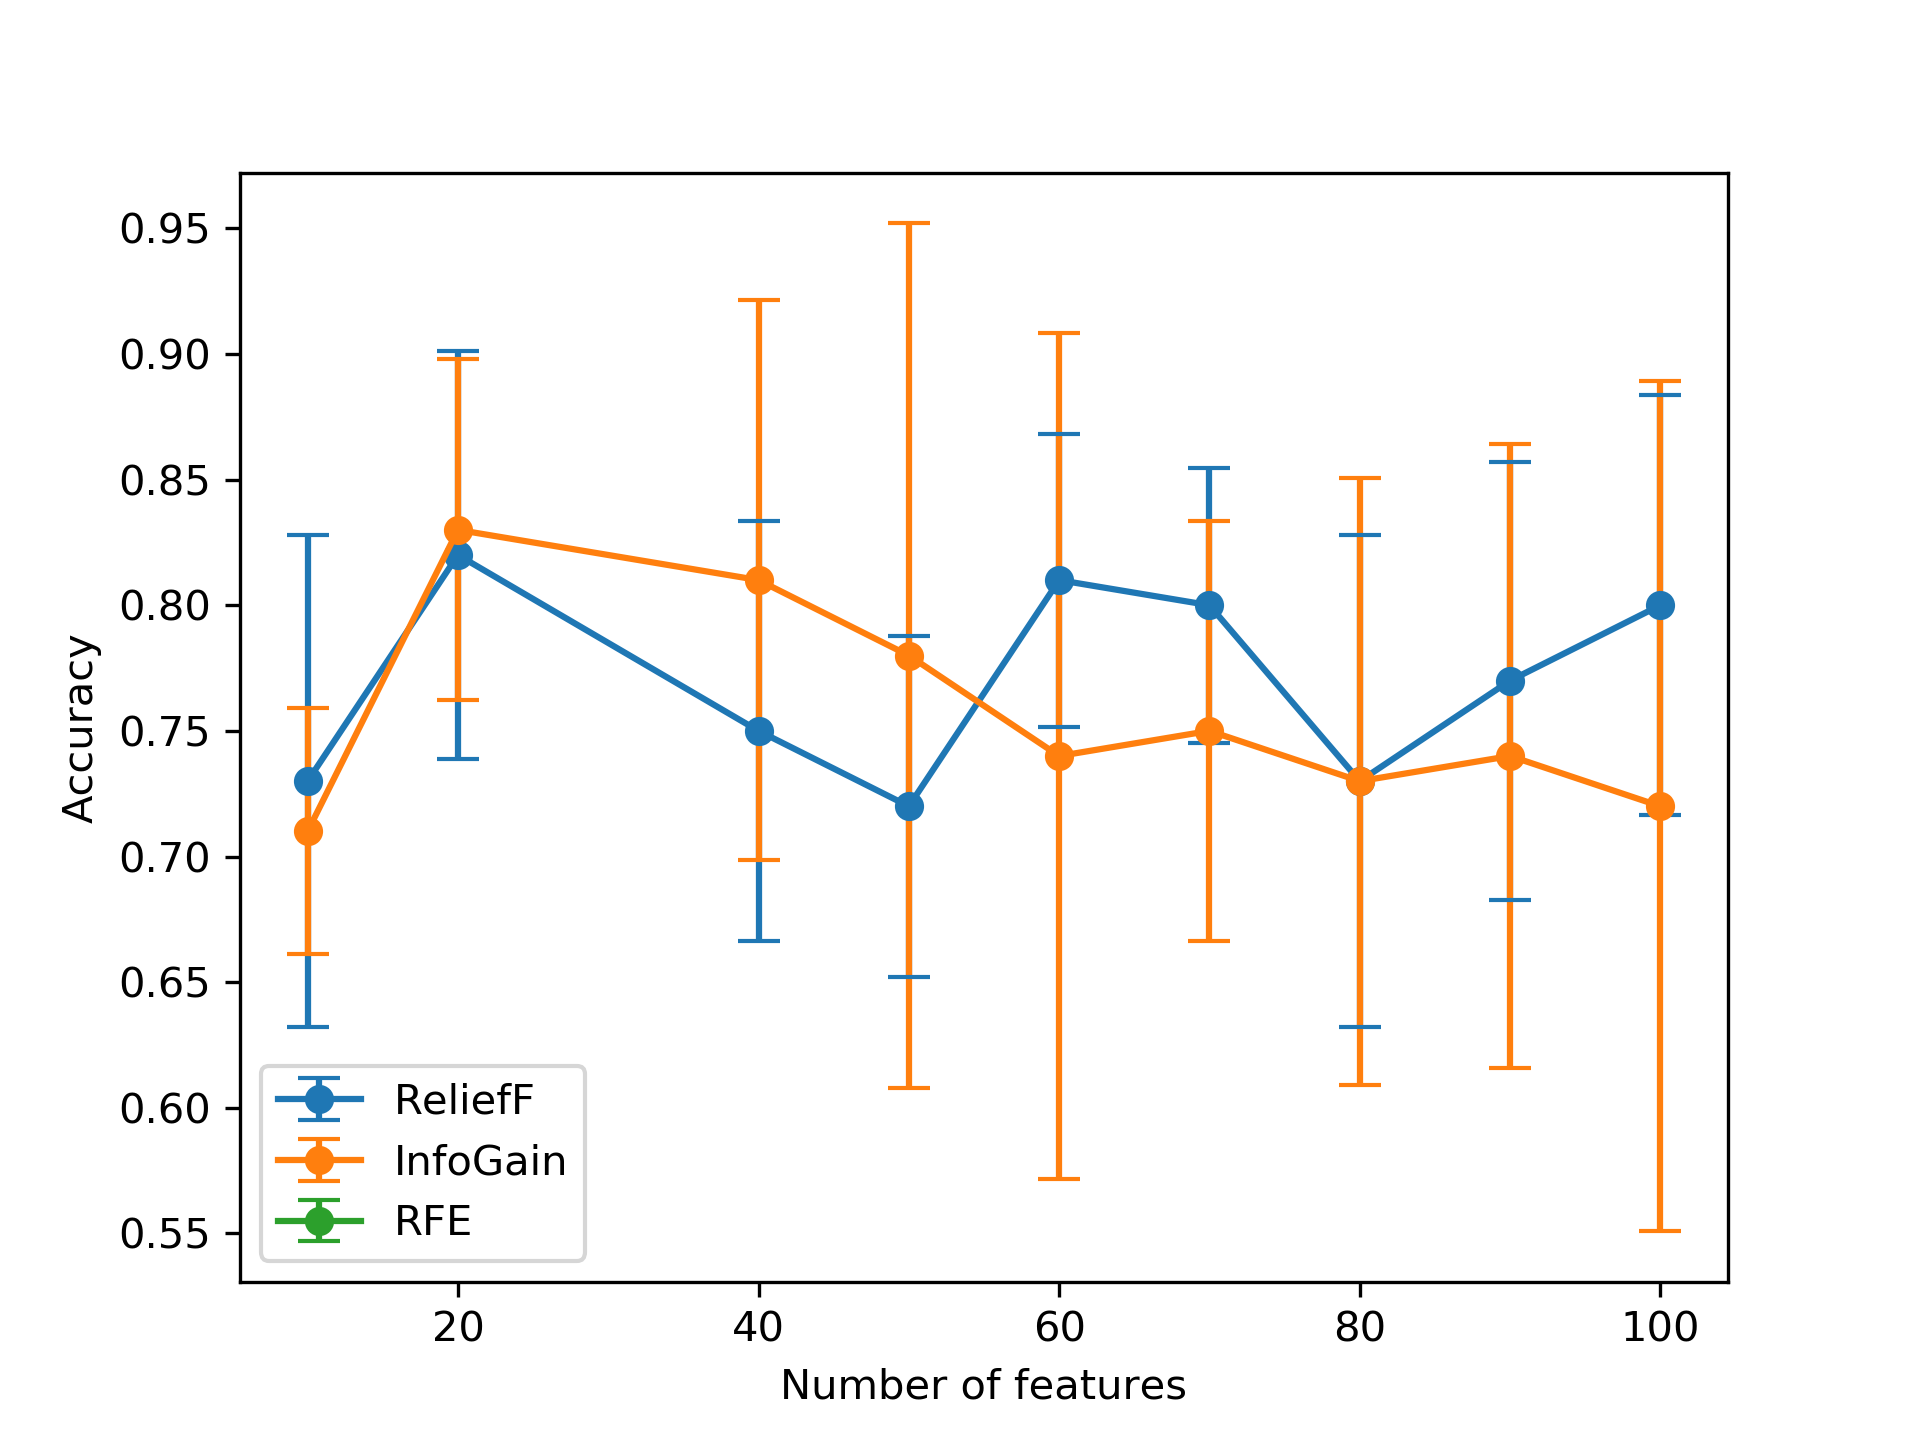
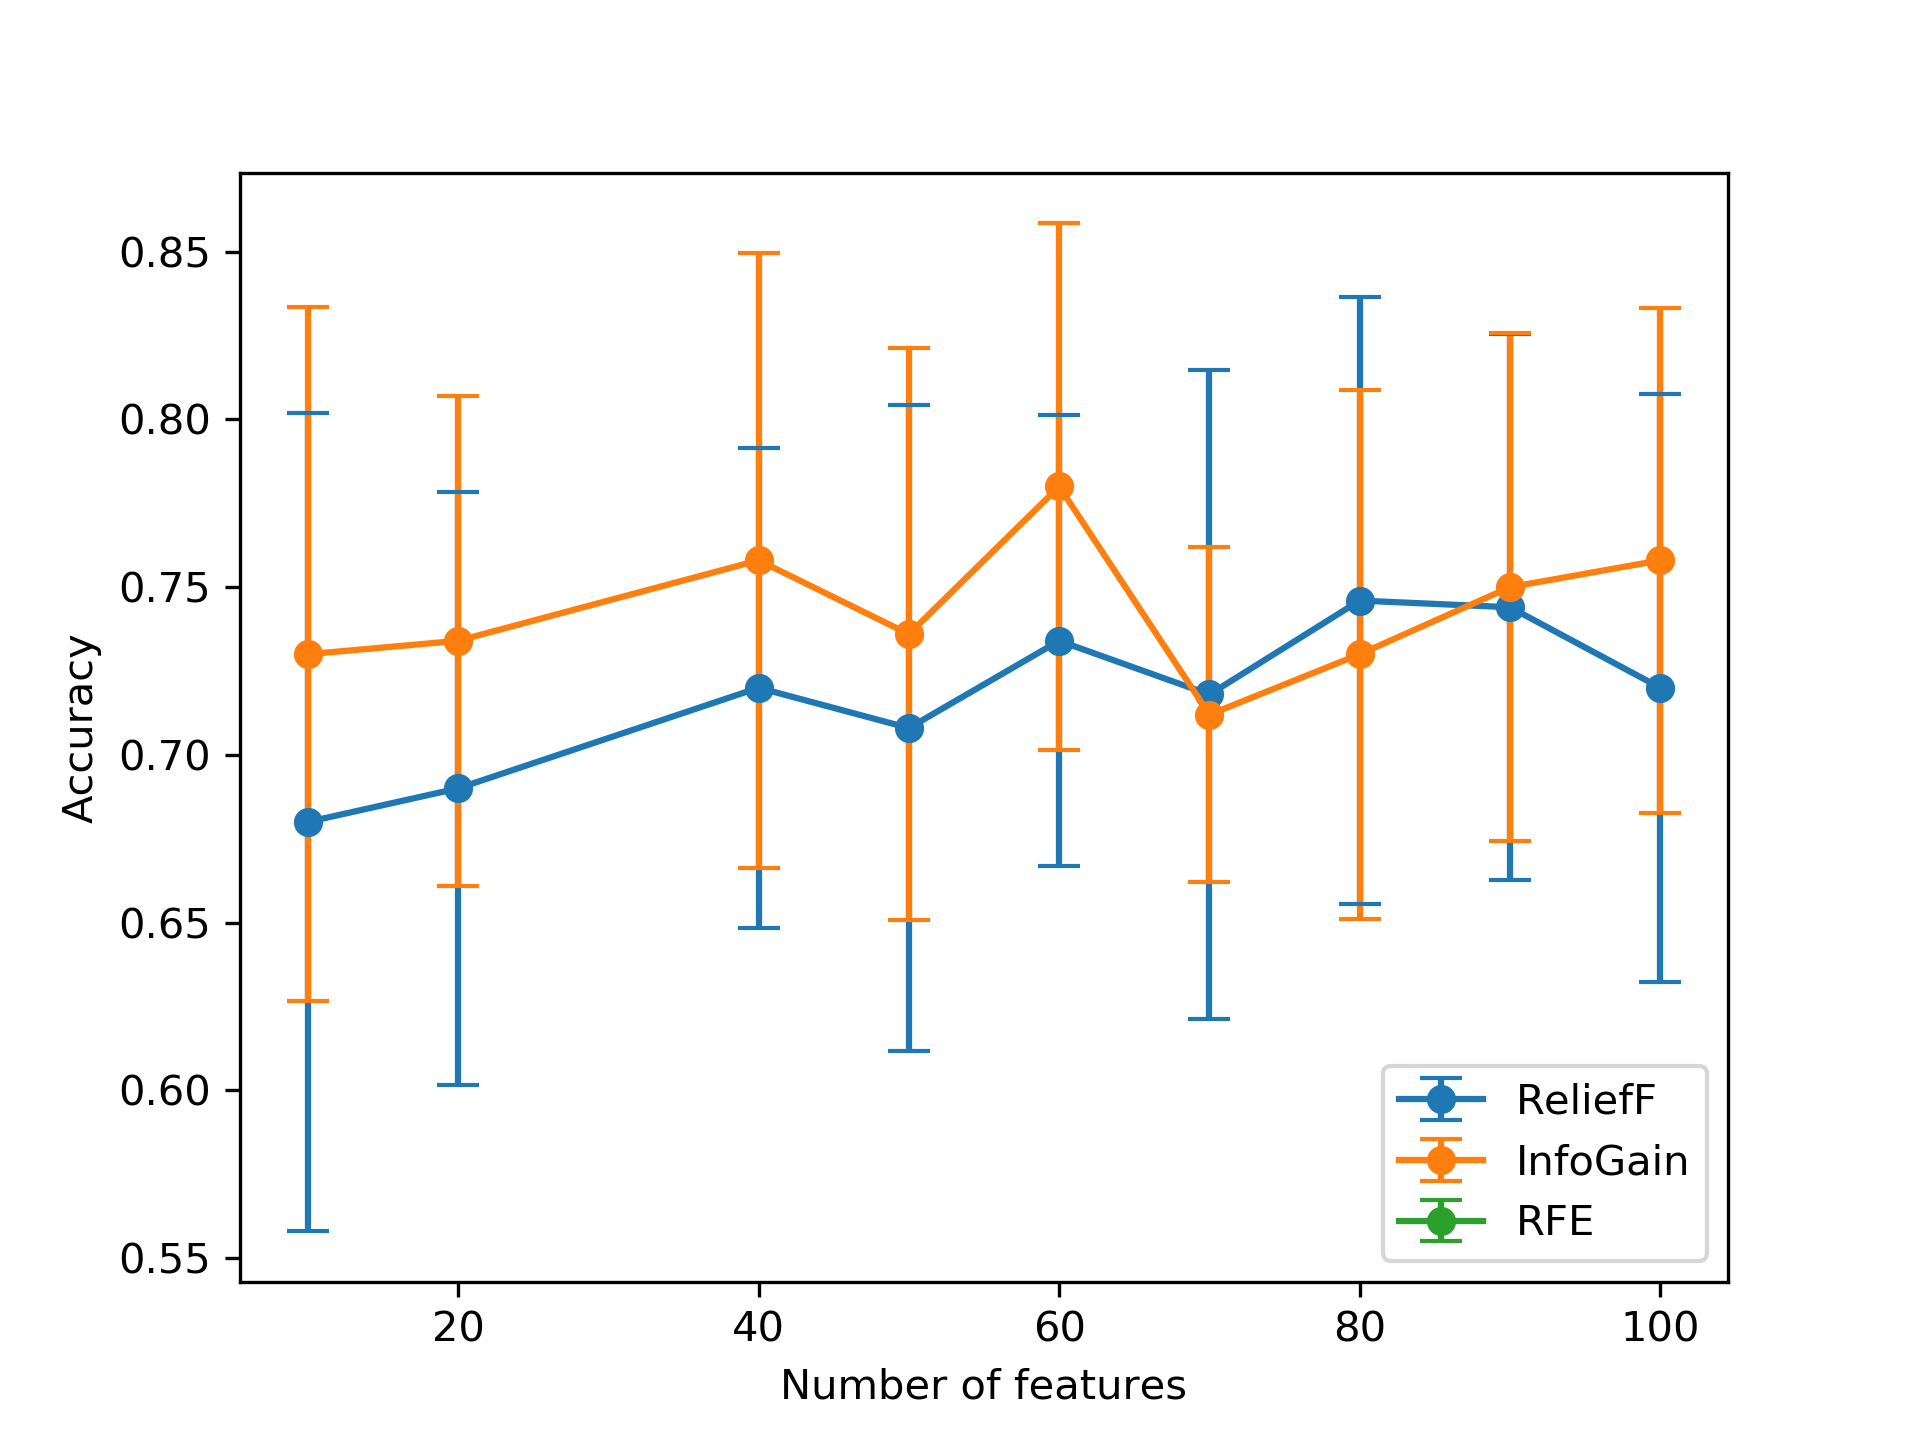
fix bug cv

diff --git a/Initial_Pipeline.py b/Initial_Pipeline.py
@@ -195,11 +195,7 @@ def summarize(scores):
 
     return summary
 
-def cross_validate(X,Y):
-
-    Nsplits = 5
-
-    validator = KFold(n_splits=Nsplits)
+def cross_validate(X,Y,Nsplits):
 
     entries = []
     ind = 0
@@ -215,7 +211,11 @@ def cross_validate(X,Y):
         this_pred_list = []
         this_test_list = []
 
+        testing = []
+
         for iter in range(Niterations):
+
+            validator = KFold(n_splits=Nsplits,shuffle=True)
 
             for train_index, test_index in validator.split(X):
 
@@ -249,9 +249,10 @@ def cross_validate(X,Y):
 
 if __name__ == "__main__":
 
-    features = [10,20,40,50,60,70,80,90,100]
+    features = [10,20,30,40,50,60,70,80,90,100]
     RELIEFF_K = 10
-    Niterations = 2
+    Niterations = 5
+    Nsplits = 4 # for cross validation
     feature_selectors = ["ReliefF","InfoGain"]
     X, Y = process_data()
 
@@ -268,7 +269,7 @@ if __name__ == "__main__":
 
         # different train sets for the feature selection methods
 
-        these_results,pred_list,test_list = cross_validate(X,Y)
+        these_results,pred_list,test_list = cross_validate(X,Y,Nsplits)
 
         results.append(these_results)
 

diff --git a/plot.py b/plot.py
@@ -46,7 +46,6 @@ def make_plot(feature_selectors,test_list, pred_list):
     for i in range(len(feature_selectors)):
 
         cm = confusion_matrix(test_list[i], pred_list[i],labels,normalize='true')            #This builds a confusion matrix by comparing diagnosis from the Test set (True diagnosis) against the predicted diagnosis (Y_pred)
-        #print(cm)
 
         #Visualize the confusion table
         sns.set(font_scale=1.4) # for label size
